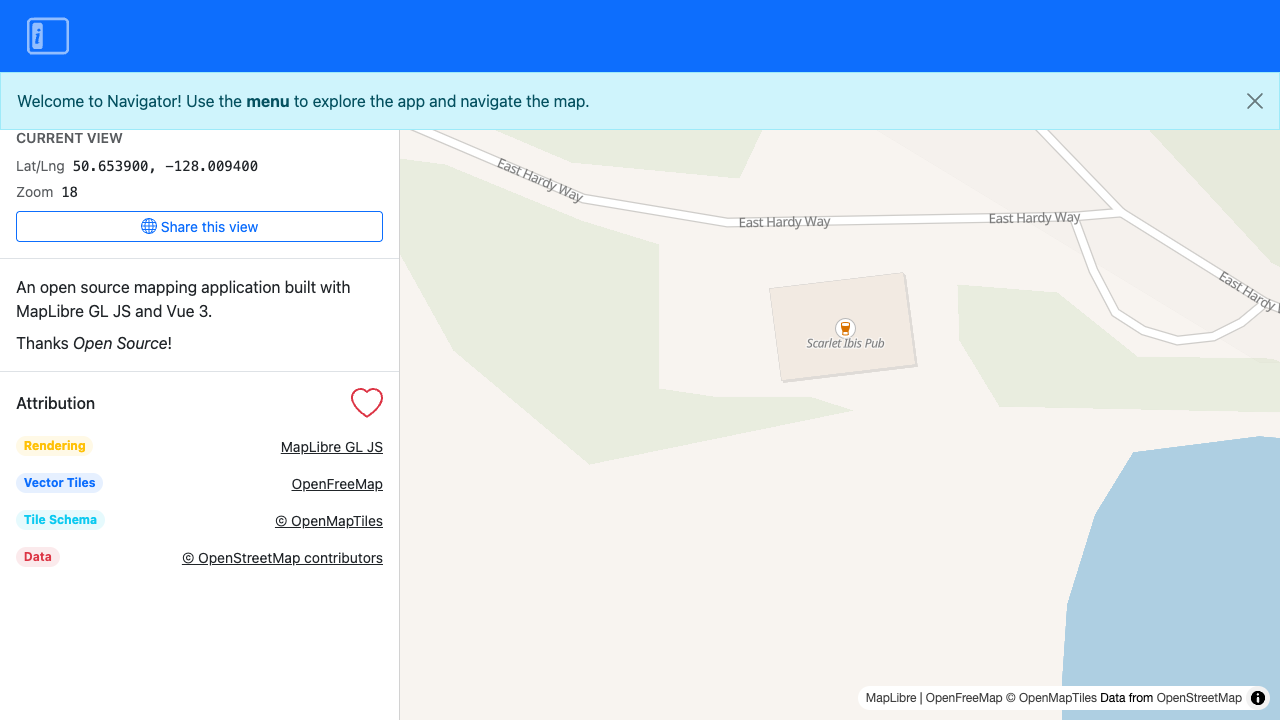
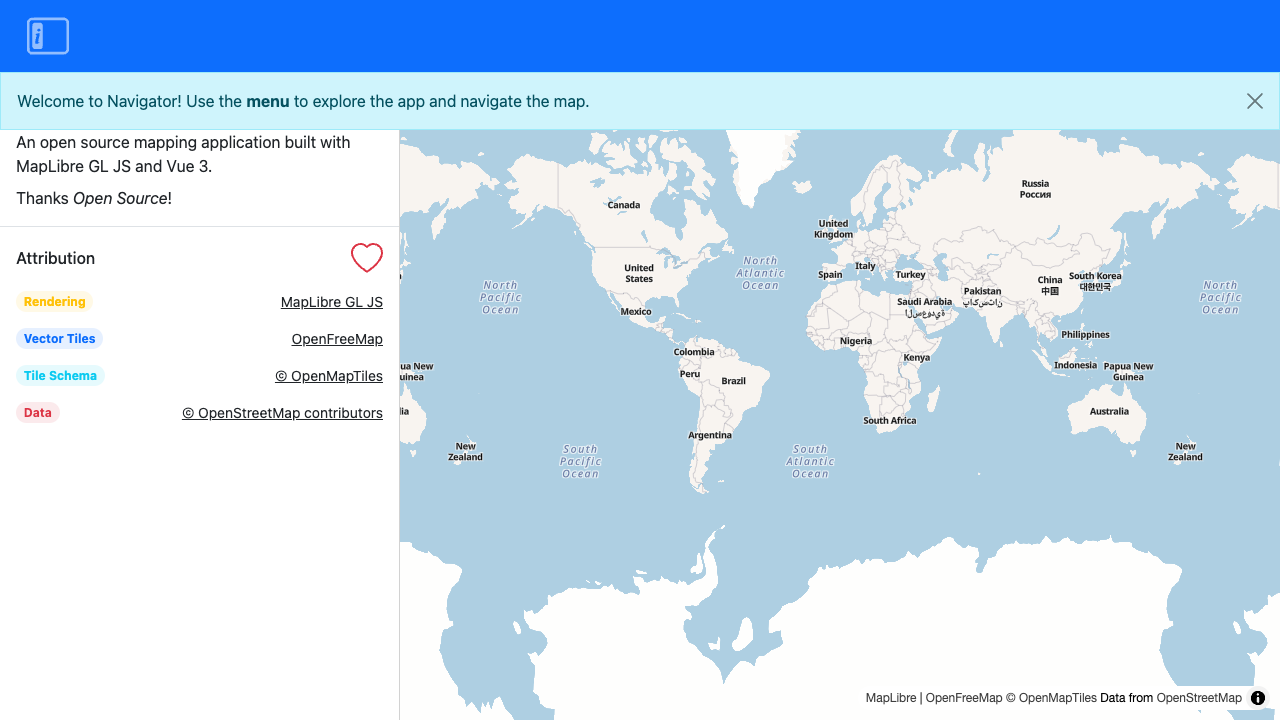
Don't show view in menu when there isn't one.

diff --git a/src/core/useMap.js b/src/core/useMap.js
@@ -53,9 +53,12 @@ export const useMap = (containerRef = null, options = {}) => {
             map.on("load", () => {
                 // Determine initial view: URL hash takes priority over localStorage
                 const hashView = parseUrlHash();
+                const hasStoredView = !!(
+                    cached.state.mapView.center && cached.state.mapView.zoom
+                );
                 if (hashView) {
                     map.jumpTo({ center: hashView.center, zoom: hashView.zoom });
-                } else if (cached.state.mapView.center && cached.state.mapView.zoom) {
+                } else if (hasStoredView) {
                     map.jumpTo({
                         center: cached.state.mapView.center,
                         zoom: cached.state.mapView.zoom,
@@ -71,8 +74,18 @@ export const useMap = (containerRef = null, options = {}) => {
                     updateUrlHash(z, c.lat, c.lng);
                 };
 
-                // Initialise the ref and hash immediately (before any user movement)
-                refreshView();
+                // Only populate currentView when there is a meaningful view to share
+                // (a URL hash or a previously persisted view). On a true first visit
+                // currentView stays null so the "Current view / Share this view"
+                // section in the menu remains hidden.
+                if (hashView || hasStoredView) {
+                    refreshView();
+                } else {
+                    // Still write the URL hash even on a first visit
+                    const c = map.getCenter();
+                    const z = map.getZoom();
+                    updateUrlHash(z, c.lat, c.lng);
+                }
 
                 // On map movement: persist to localStorage, update ref, and update hash
                 map.on(

diff --git a/tests/e2e/2.core.spec.js b/tests/e2e/2.core.spec.js
@@ -65,6 +65,37 @@ test.describe("useMap / URL hash", () => {
     expect(page.url()).toMatch(/#map=/);
   });
 
+  test("menu hides current view section on initial load with no hash", async ({ page }) => {
+    await withNoViewStorage(page);
+    await page.goto("/");
+    await page.waitForLoadState("networkidle");
+
+    // Panel is open on desktop but "Current view" section must not be visible
+    await expect(page.locator(".navigator-panel")).toBeVisible({ timeout: 5000 });
+    await expect(page.getByText("Current view")).toBeHidden();
+    await expect(page.locator(".navigator-share-link")).toBeHidden();
+  });
+
+  test("menu shows current view section after the map is panned", async ({ page }) => {
+    await withNoViewStorage(page);
+    await page.goto("/");
+    await page.waitForLoadState("networkidle");
+
+    await expect(page.getByText("Current view")).toBeHidden();
+
+    const canvas = page.locator(".navigator-map canvas");
+    await canvas.dragTo(canvas, {
+      sourcePosition: { x: 200, y: 200 },
+      targetPosition: { x: 400, y: 200 },
+    });
+
+    // Section appears after first moveend (throttled to 1 s)
+    await expect
+      .poll(() => page.getByText("Current view").isVisible(), { timeout: 5000 })
+      .toBe(true);
+    await expect(page.locator(".navigator-share-link")).toBeVisible();
+  });
+
   test("menu shows current coordinates", async ({ page }) => {
     await withNoViewStorage(page);
     await page.goto("/#map=18/50.653900/-128.009400");

diff --git a/tests/e2e/screenshots/2.core.spec.js b/tests/e2e/screenshots/2.core.spec.js
@@ -29,7 +29,7 @@ test.use({ viewport: { width: 1280, height: 720 } });
 
 test("useUI / First load — desktop initial load", async ({ page }) => {
   await withNoViewStorage(page);
-  await page.goto(`/${TEST_HASH}`);
+  await page.goto("/");
   await page.waitForLoadState("networkidle");
 
   // Wait for panel slide-in to complete

diff --git a/docs/2.core.md b/docs/2.core.md
@@ -26,6 +26,8 @@ As the map is panned or zoomed, the URL hash is updated automatically (throttled
 
 The navigation menu panel displays the current map coordinates and zoom level, and a **Share this view** link. Clicking the link opens the current map view in a new tab, or you can copy the URL to share a specific location.
 
+The **Current view** section is hidden on a true first visit (no URL hash, no persisted view). It appears as soon as a view is available — either because the page loaded with a `#map=…` hash, the user has a previously saved view, or the map has been panned or zoomed.
+
 ![Menu panel with current view coordinates and share link](../assets/screenshots/docs/2.core/url-hash.png)
 
 ---
